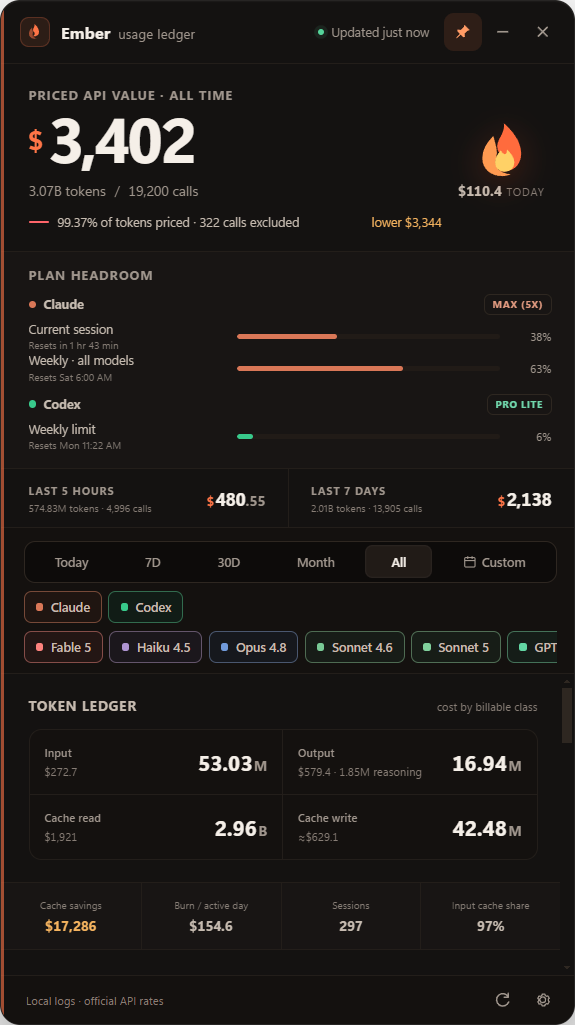
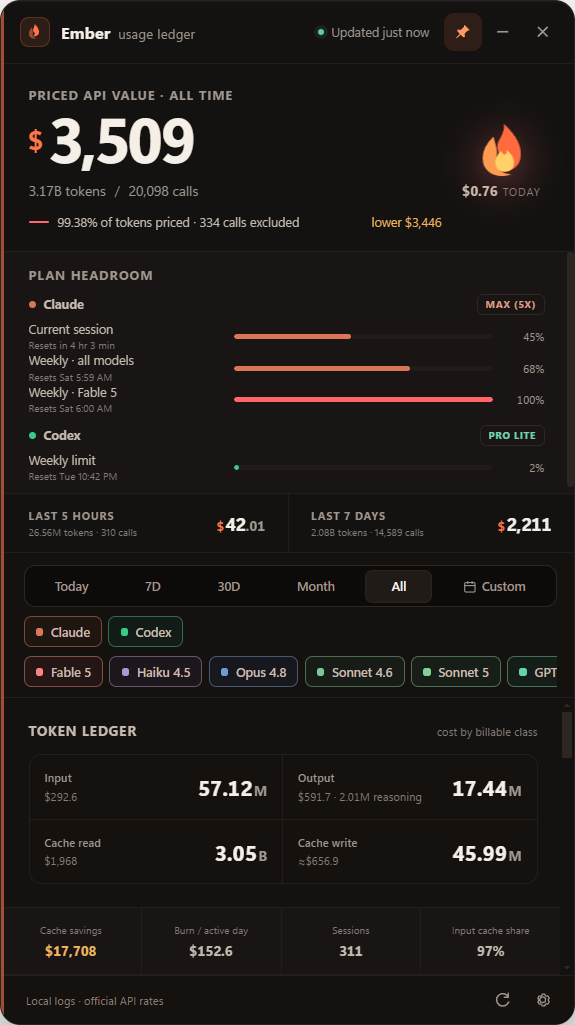
Add Claude Fable 5 quota bar

diff --git a/src/renderer/app.js b/src/renderer/app.js
@@ -1408,16 +1408,36 @@ function fmtResetDay(iso) {
 function claudeRows(l) {
   const d = l.data || {};
   const rows = [];
+  const modelRows = new Set();
   if (d.five_hour) {
     rows.push({ name: 'Current session', sub: () => fmtCountdown(d.five_hour.resets_at), u: d.five_hour.utilization });
   }
   if (d.seven_day) {
     rows.push({ name: 'Weekly · all models', sub: () => fmtResetDay(d.seven_day.resets_at), u: d.seven_day.utilization });
   }
-  for (const [key, label] of [['seven_day_opus', 'Weekly · Opus'], ['seven_day_sonnet', 'Weekly · Sonnet']]) {
+  for (const [key, label] of [
+    ['seven_day_opus', 'Weekly · Opus'],
+    ['seven_day_sonnet', 'Weekly · Sonnet'],
+    ['seven_day_fable', 'Weekly · Fable 5'],
+    ['seven_day_fable_5', 'Weekly · Fable 5'],
+  ]) {
     const v = d[key];
-    if (v && v.utilization != null && v.utilization > 0) {
+    const showAtZero = key.startsWith('seven_day_fable');
+    if (v && v.utilization != null && (showAtZero || v.utilization > 0) && !modelRows.has(label)) {
       rows.push({ name: label, sub: () => fmtResetDay(v.resets_at), u: v.utilization });
+      modelRows.add(label);
+    }
+  }
+
+  // Newer account API payloads put model-specific quotas in a generic limits
+  // array instead of a named seven_day_* field. Fable currently arrives with
+  // display_name "Fable", while the product-facing model name is Fable 5.
+  for (const v of Array.isArray(d.limits) ? d.limits : []) {
+    const displayName = v && v.scope && v.scope.model && v.scope.model.display_name;
+    if (v && v.kind === 'weekly_scoped' && /^fable(?:\s*5)?$/i.test(displayName || '')
+      && v.percent != null && !modelRows.has('Weekly · Fable 5')) {
+      rows.push({ name: 'Weekly · Fable 5', sub: () => fmtResetDay(v.resets_at), u: v.percent });
+      modelRows.add('Weekly · Fable 5');
     }
   }
   return rows;

diff --git a/README.md b/README.md
@@ -19,7 +19,7 @@ and honest API-equivalent cost — updated live from the logs already on your ma
 
 <br />
 
-<img src="docs/ember.png" width="460" alt="The current Ember usage ledger showing API-equivalent value, Claude and Codex plan headroom, rolling windows, filters, and token totals" />
+<img src="docs/ember.png" width="460" alt="The current Ember usage ledger showing API-equivalent value, Claude and Codex plan headroom, the separate Fable 5 weekly quota, rolling windows, filters, and token totals" />
 
 <sub>The current Ember usage ledger — local data, live limits, official API rates.</sub>
 
@@ -35,12 +35,12 @@ Ember turns those invisible meters into one calm, always-available desktop view.
 
 | 🔥 Live headroom | ◉ Honest cost | ⏱ Complete history |
 |---|---|---|
-| Claude and Codex session and weekly limits, with reset countdowns. | Request-level pricing using each provider's official billing rules. | Durable local history, even after the original session logs are deleted. |
+| Claude and Codex session and weekly limits—including Claude's separate Fable 5 quota—with reset countdowns. | Request-level pricing using each provider's official billing rules. | Durable local history, even after the original session logs are deleted. |
 
 ### Everything important, at a glance
 
 - **One headline number** for combined Claude Code and Codex API-equivalent value
-- **5-hour and 7-day windows** for the pace of your current work
+- **5-hour and 7-day windows**, including Claude's separate Fable 5 weekly quota
 - **Provider and model filters** for instant isolation of any slice
 - **Token ledger** for input, output, cache reads, cache writes, and measured reasoning
 - **Interactive burn history** with daily drill-downs and custom date-and-time ranges
@@ -78,8 +78,8 @@ Ember supports **Windows 11**. Windows 11 22H2 or newer is recommended for the a
 
 1. Open the **[latest release](https://github.com/HarshalVankudre/Ember-usage-widget/releases/latest)**.
 2. Choose the build that fits you:
-   - `Ember Setup 1.2.0.exe` — one-click per-user install, shortcuts, tray, and autostart
-   - `Ember Portable 1.2.0.exe` — one self-contained executable, no installation
+   - `Ember Setup 1.2.1.exe` — one-click per-user install, shortcuts, tray, and autostart
+   - `Ember Portable 1.2.1.exe` — one self-contained executable, no installation
 3. Launch Ember. Existing local Claude Code and Codex sessions appear automatically.
 
 No API keys. No account setup. No database to configure.